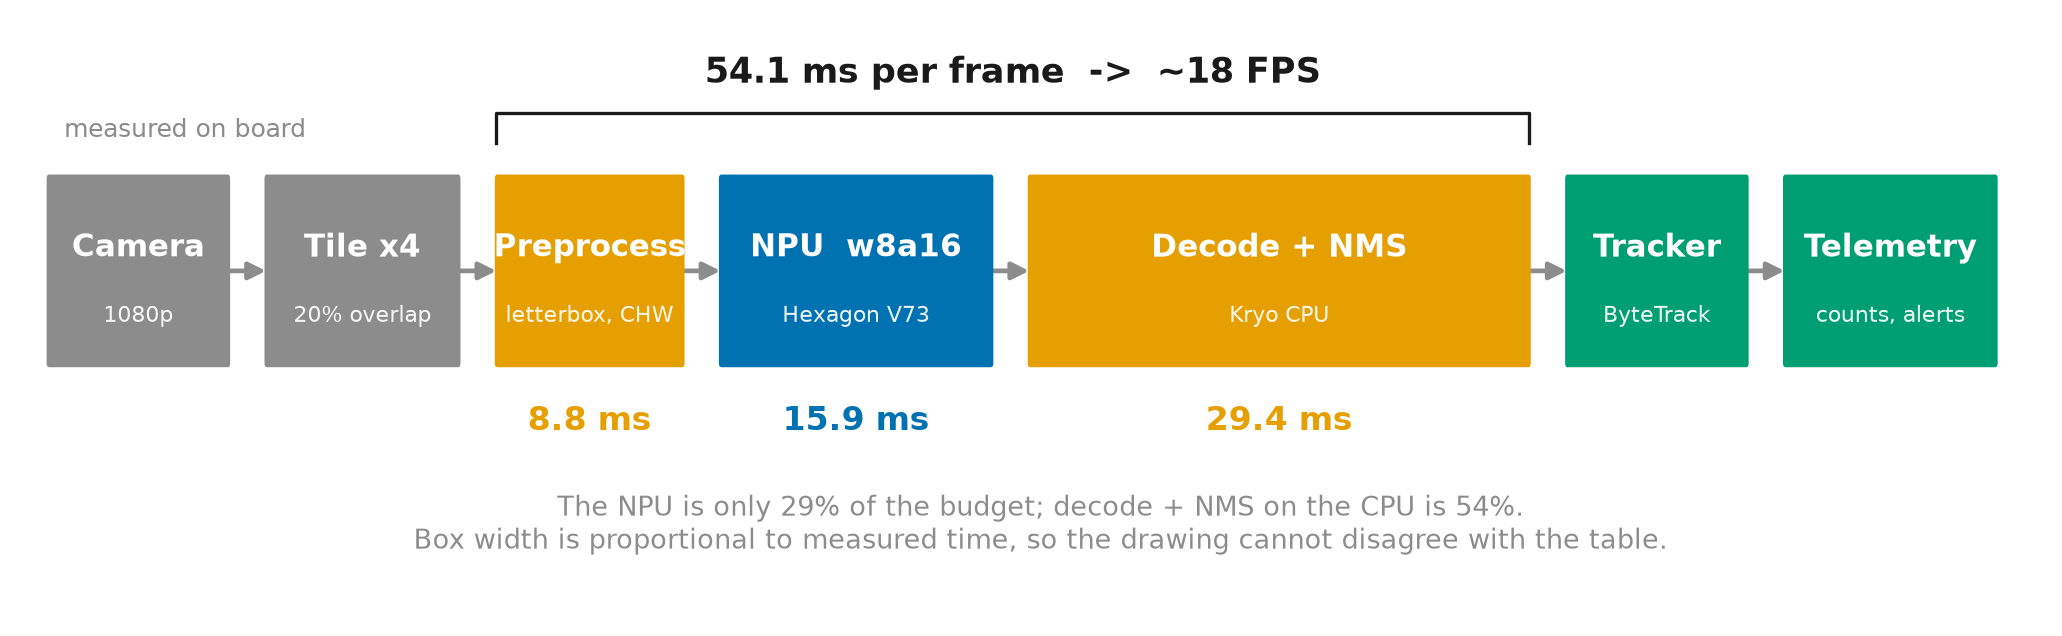
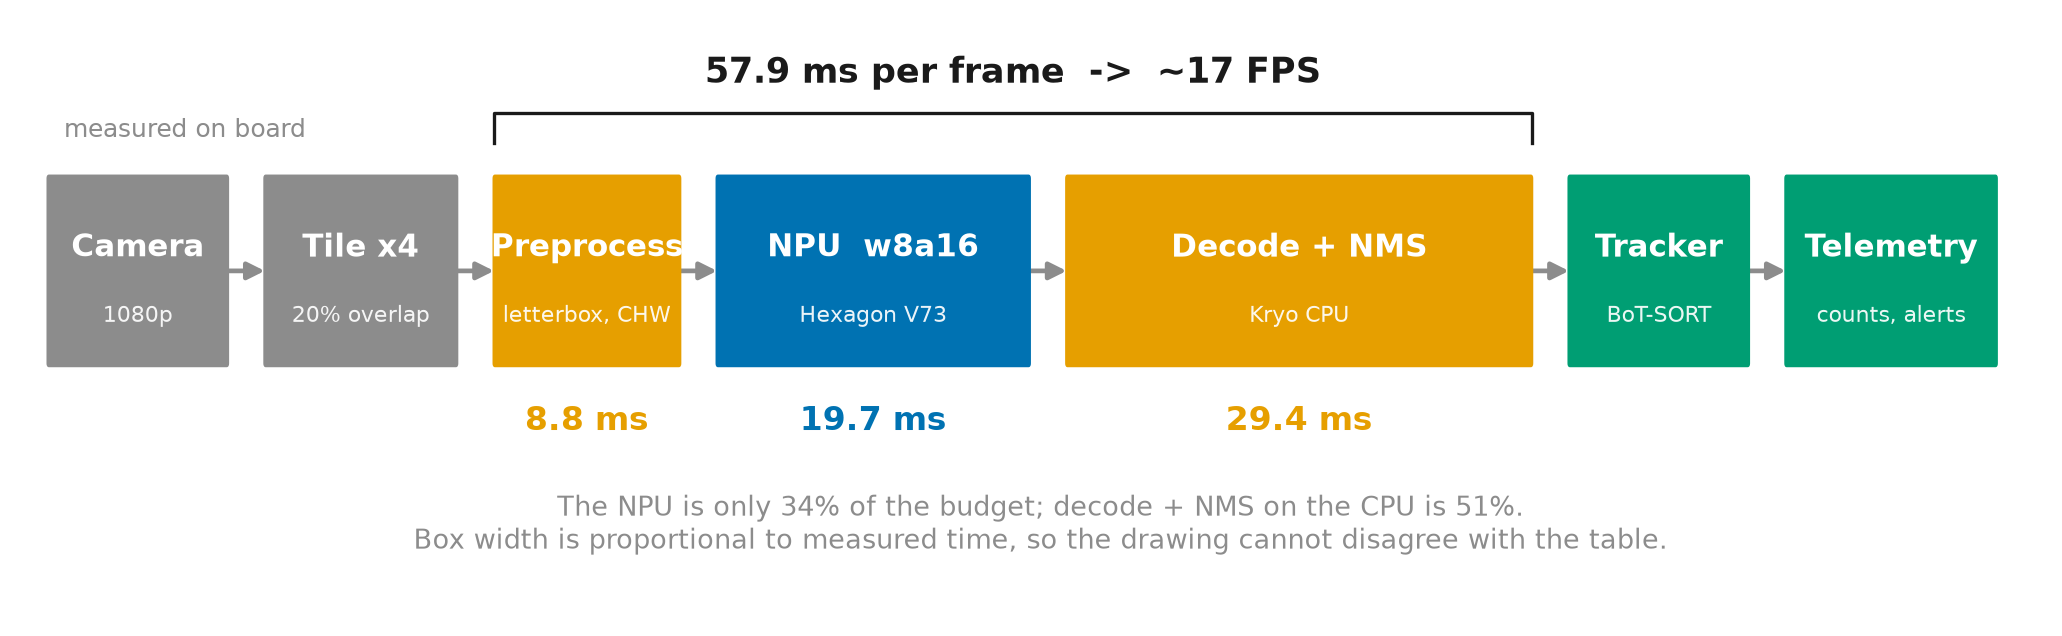
figure: point the pipeline budget at YOLO26, the model the deck actually selects
It still carried v8n's 3.98 ms NPU segment, so the drawing said 54.1 ms / 18 FPS
while the latency slide said 57.9 ms / 17.3 FPS. Box widths are proportional to
measured time, which is only a virtue when the measurement is the right one.

diff --git a/4-bench/make_pipeline_figure.py b/4-bench/make_pipeline_figure.py
@@ -63,7 +63,7 @@ def main() -> int:
 
     b = json.load(open(os.path.join(args.root, "results", "board",
                                     "board_cpu_cold.json")))
-    npu_ms = 3.984                       # v8n w8a16 on AI Hub QCS8550
+    npu_ms = 4.93                        # YOLO26 w8a16 on AI Hub QCS8550
     pre_ms = b["pre_ms"]
     post_ms = b["post_ms"]
     tiles = 4
@@ -77,7 +77,7 @@ def main() -> int:
         ("Preprocess",    pre_ms * tiles, "letterbox, CHW",  ORANGE, None),
         ("NPU  w8a16",    npu_ms * tiles, "Hexagon V73",     BLUE,   None),
         ("Decode + NMS",  post_ms * tiles, "Kryo CPU",       ORANGE, None),
-        ("Tracker",       None,          "ByteTrack",        GREEN,  1.45),
+        ("Tracker",       None,          "BoT-SORT",         GREEN,  1.45),
         ("Telemetry",     None,          "counts, alerts",   GREEN,  1.7),
     ]
 
